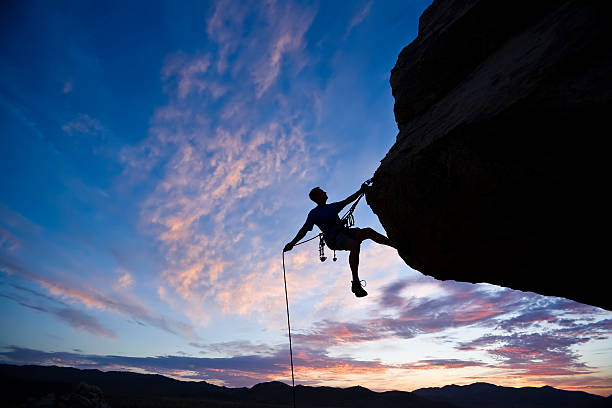
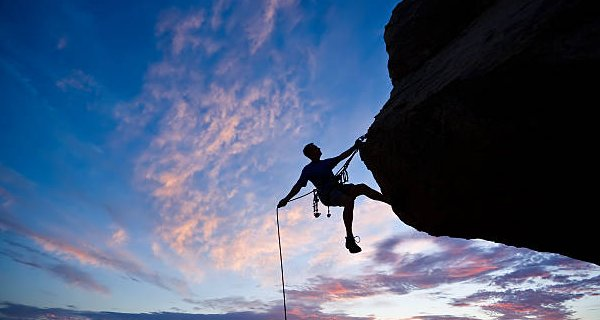
image cycle animation working

diff --git a/public/stylesheets/index.css b/public/stylesheets/index.css
@@ -31,11 +31,43 @@
     height: 320px;
 
     margin: 20px 0px 20px 15%;
+    box-shadow: 0px 0px 10px rgba(0, 0, 0, 0.5);
+
+    animation: fade infinite linear 25s ;
 }
 
-#top-image-container > img {
-    position: absolute;
-    width: 600px;
-    height: 320px;
-    object-fit: none;
+@keyframes fade {
+    0% {
+        background-image: url('../images/home-page/istockphoto-146767207-612x612.jpg');
+    }
+    10% {
+        background-image: url('../images/home-page/istockphoto-146767207-612x612.jpg');
+    }
+    20% {
+        background-image: url('../images/home-page/107772044_medium_1494210484.jpg');
+    }
+    30% {
+        background-image: url('../images/home-page/107772044_medium_1494210484.jpg');
+    }
+    40% {
+        background-image: url('../images/home-page/106650415_medium_1494128802.jpg');
+    }
+    50% {
+        background-image: url('../images/home-page/106650415_medium_1494128802.jpg');
+    }
+    60% {
+        background-image: url('../images/home-page/rock-climbing-reference-caldwell.jpg');
+    }
+    70% {
+        background-image: url('../images/home-page/rock-climbing-reference-caldwell.jpg');
+    }
+    80% {
+        background-image: url('../images/home-page/109295012_medium_1494345793.jpg');
+    }
+    90% {
+        background-image: url('../images/home-page/109295012_medium_1494345793.jpg');
+    }
+    100% {
+        background-image: url('../images/home-page/istockphoto-146767207-612x612.jpg');
+    }
 }

diff --git a/public/javascripts/crags.js b/public/javascripts/crags.js
@@ -9,16 +9,20 @@ if (editButton) {
 
     // hide current details and show edit form (and viceversa)
     editButton.addEventListener('click', (e) => {
+        if (editButton.innerText === 'Edit') {
+            editButton.innerText = 'Cancel';
+        } else {
+            editButton.innerText = 'Edit';
+        }
+
         if (postInfo.classList.contains('hidden')) {
             postInfo.classList.remove('hidden');
             formInfo.classList.add('hidden');
             formContainer.classList.add('hidden');
-            editButton.innerText = 'Edit';
         } else {
             postInfo.classList.add('hidden');
             formInfo.classList.remove('hidden');
             formContainer.classList.remove('hidden');
-            editButton.innerText = 'Cancel';
         }
     });
 
